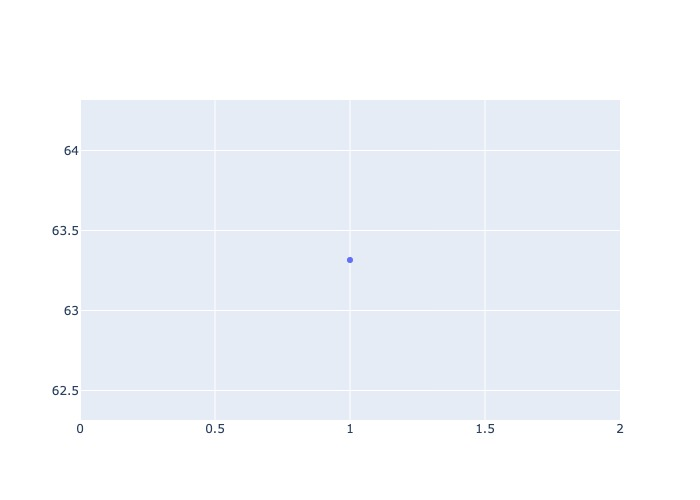
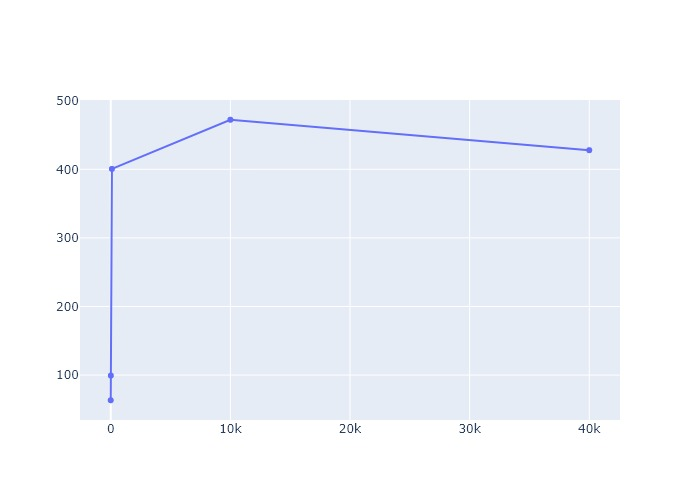
04/05/2023

diff --git a/DP/main_new.py b/DP/main_new.py
@@ -12,7 +12,7 @@ from tqdm import tqdm
 from data_loader import DataLoader
 from tqdm._tqdm import trange
 from dynamic_tree import DynamicTree
-from insertion_deletion import Insertion_Deletion_Mechanism
+from insertion_deletion import InsertionDeletionMechanism
 from ipp import IPP
 from query import Query
 from current_df import CurrentDf
@@ -75,7 +75,6 @@ def main():
     data = data_loader_instance.dynamic_data
     insertion_only_data = data_loader_instance.insertion_only_data
     deletion_only_data = data_loader_instance.deletion_only_data
-    print(data)
     # data = auxiliary.sparse_data(data, 1, 10)
     # data = auxiliary.insert_deletion_data(data, False)
     config = json.load(open(args.domain_path))
@@ -84,7 +83,7 @@ def main():
     # ---- Construction Section --------
     query_instance = Query(config, query_type='linear query', random_query=True, query_size=args.query_size, logger=logger)
     dynamic_tree = DynamicTree(config, query_instance)
-    insertion_deletion_instance = Insertion_Deletion_Mechanism(config, query_instance)
+    insertion_deletion_instance = InsertionDeletionMechanism(config, query_instance)
     ipp_instance = IPP(data, args.epsilon, args.beta)
     # Dataframe that stores the current dataset
     # cur_data: current data upto the timestamp t
@@ -96,8 +95,8 @@ def main():
     cur_deleted_data = CurrentDf(config.keys())
 
     # ---- Establish Dynamic Tree --------
-    print('******** Create Dynamic Tree ********')
-    logger.info('******** Create Dynamic Tree ********')
+    print('******** Create Dynamic Tree Starts********')
+    logger.info('******** Create Dynamic Tree Starts********')
     for t in trange(UPPERBOUND):
         ipp_instance.update_segment(t)
         if t == (UPPERBOUND - 1):
@@ -130,10 +129,12 @@ def main():
         cur_deletion_data.add_deletion_item(data.iloc[[t]], t)
         cur_inserted_data.add_insertion_item(data.iloc[[t]], t)
         cur_deleted_data.add_deletion_item(data.iloc[[t]], t)
+    print('******** Create Dynamic Tree Finishes********')
+    logger.info('******** Create Dynamic Tree Finishes********')
+    logger.info('Infinite Private Partitioning: %s' % ipp_instance)
     logger.info('The dynamic interval tree consists of nodes: %s' % dynamic_tree.node_list[1:])
     logger.info('The insertion tree consists of nodes: %s ' % insertion_deletion_instance.insertion_tree.node_list[1:])
     logger.info('The deletion tree consists of nodes: %s ' % insertion_deletion_instance.deletion_tree.node_list[1:])
-    logger.info('Infinite Private Partitioning: %s' % ipp_instance)
     print('******** Testing Started ********')
     logger.info('******** Testing Started ********')
     # Modification
@@ -150,7 +151,7 @@ def main():
     analysis_data_1.draw_mean_diagram(dynamic_tree, insertion_deletion_instance, query_instance, ipp_instance, figure_file_name)
     analysis_data_1.draw_error_diagram(dynamic_tree, insertion_deletion_instance, query_instance, ipp_instance, figure_file_name)
     logger.info('******** Drawing Figure finished ********')
-    logger.info('******** Results stored in %s ********' % result_path)
+    print('******** Results stored in %s ********' % result_path)
     return -1
 
 

diff --git a/DP/ct.py b/DP/ct.py
@@ -7,6 +7,7 @@ from query import Query
 import plotly.graph_objs as go
 import auxiliary1
 import analysis_data_1
+import numpy as np
 from my_logger import Logger
 
 data = pd.read_csv('./data/adult.csv')
@@ -18,15 +19,15 @@ member = 'age'
 iteration = 1000
 query_instance = Query(config, query_type='linear query', random_query=True, query_size=100)
 error = []
-index_range = list(range(1, 40000, 10000))
+index_range = list(range(1, 40000))
 
-for size in [1]:
+for size in [1, 10, 100, 10000, 40000]:
     data_sized = data[0:size]
     approximation_instance = ApproximationInstance(data_sized, domain, epsilon, clique, 'Data', iteration)
     answer_ground_truth = auxiliary1.answer_queries(query_instance.query_type, data_sized, member, query_instance.queries)
     answer_pgm = auxiliary1.answer_queries(query_instance.query_type, approximation_instance.approximated_data.df, member, query_instance.queries)
     error += [analysis_data_1.l1_absolute_error(answer_ground_truth, answer_pgm)]
-figure_data = [go.Scatter(x=index_range, y=error, mode='lines+markers', name='error')]
+figure_data = [go.Scatter(x=[1, 10, 100, 10000, 40000], y=error, mode='lines+markers', name='error')]
 figure = go.Figure(data=figure_data)
 figure.update_xaxes(fixedrange=True)
 figure.write_image('error diagram.jpg')

diff --git a/DP/insertion_mechanism.py b/DP/insertion_mechanism.py
@@ -14,7 +14,7 @@ from mbi import Domain, Dataset
 
 # This mechanmism implement the baseline mechanism, that using insertion and deletion only mechanmism
 
-class Insertion_Mechanism:
+class InsertionMechanism:
     def __init__(self, config, query_instance=None):
         self.node_list = [Node(0, config.keys(), 0)]
         self.config = config
@@ -64,7 +64,7 @@ class Insertion_Mechanism:
             self.answer_ground_truth[member][index] = self.answer_queries_ground_truth(index,
                                                                                        self.query_instance.queries,
                                                                                        member, logger)
-            self.answer_mechanism[member][index] = self.answer_queries_baseline4(query_nodes, index, self.query_instance.queries, member, epsilon, beta, iteration, logger)
+            self.answer_mechanism[member][index] = self.answer_queries_baseline3(query_nodes, index, self.query_instance.queries, member, epsilon, beta, iteration, logger)
             logger.info('The testing is implemented at %s' % member)
             logger.info('Ground truth: gives answer')
             auxiliary1.output_answer(self.answer_ground_truth[member][index], member, self.query_instance, logger)

diff --git a/DP/insertion_deletion.py b/DP/insertion_deletion.py
@@ -8,16 +8,16 @@ import argparse
 import auxiliary
 from node import Node
 from approximation_instance import ApproximationInstance
-from insertion_mechanism import Insertion_Mechanism
+from insertion_mechanism import InsertionMechanism
 import auxiliary
 import auxiliary1
 from mbi import Domain, Dataset
 
 
-class Insertion_Deletion_Mechanism:
+class InsertionDeletionMechanism:
     def __init__(self, config, query_instance=None):
-        self.insertion_tree = Insertion_Mechanism(config, query_instance)
-        self.deletion_tree = Insertion_Mechanism(config, query_instance)
+        self.insertion_tree = InsertionMechanism(config, query_instance)
+        self.deletion_tree = InsertionMechanism(config, query_instance)
         self.query_instance = query_instance
         self.answer_ground_truth = {}
         self.answer_mechanism = {}

diff --git a/DP/data_loader.py b/DP/data_loader.py
@@ -81,14 +81,14 @@ class DataLoader():
         return data_output
 
     def generate_insertion_only_data(self):
-        insertion_only_data = self.dynamic_data
+        insertion_only_data = self.dynamic_data.copy()
         for i in range(len(insertion_only_data)):
             if insertion_only_data.loc[i, 'update'] == -1:
                 insertion_only_data.loc[i, 'update'] = np.nan
         return insertion_only_data
 
     def generate_deletion_only_data(self):
-        deletion_only_data = self.dynamic_data
+        deletion_only_data = self.dynamic_data.copy()
         for i in range(len(deletion_only_data)):
             if deletion_only_data.loc[i, 'update'] == 1:
                 deletion_only_data.loc[i, 'update'] = np.nan

diff --git a/DP/analysis_data_1.py b/DP/analysis_data_1.py
@@ -154,5 +154,5 @@ def l1_absolute_error(ground_truth, mechanism):
 
 
 def RMSE_error(ground_truth, mechanism):
-    mse = np.linalg.norm(np.array(ground_truth) - np.array(mechanism), 2) / len(ground_truth)
+    mse = np.square(np.linalg.norm(np.array(ground_truth) - np.array(mechanism), 2)) / len(ground_truth)
     return np.sqrt(mse)
